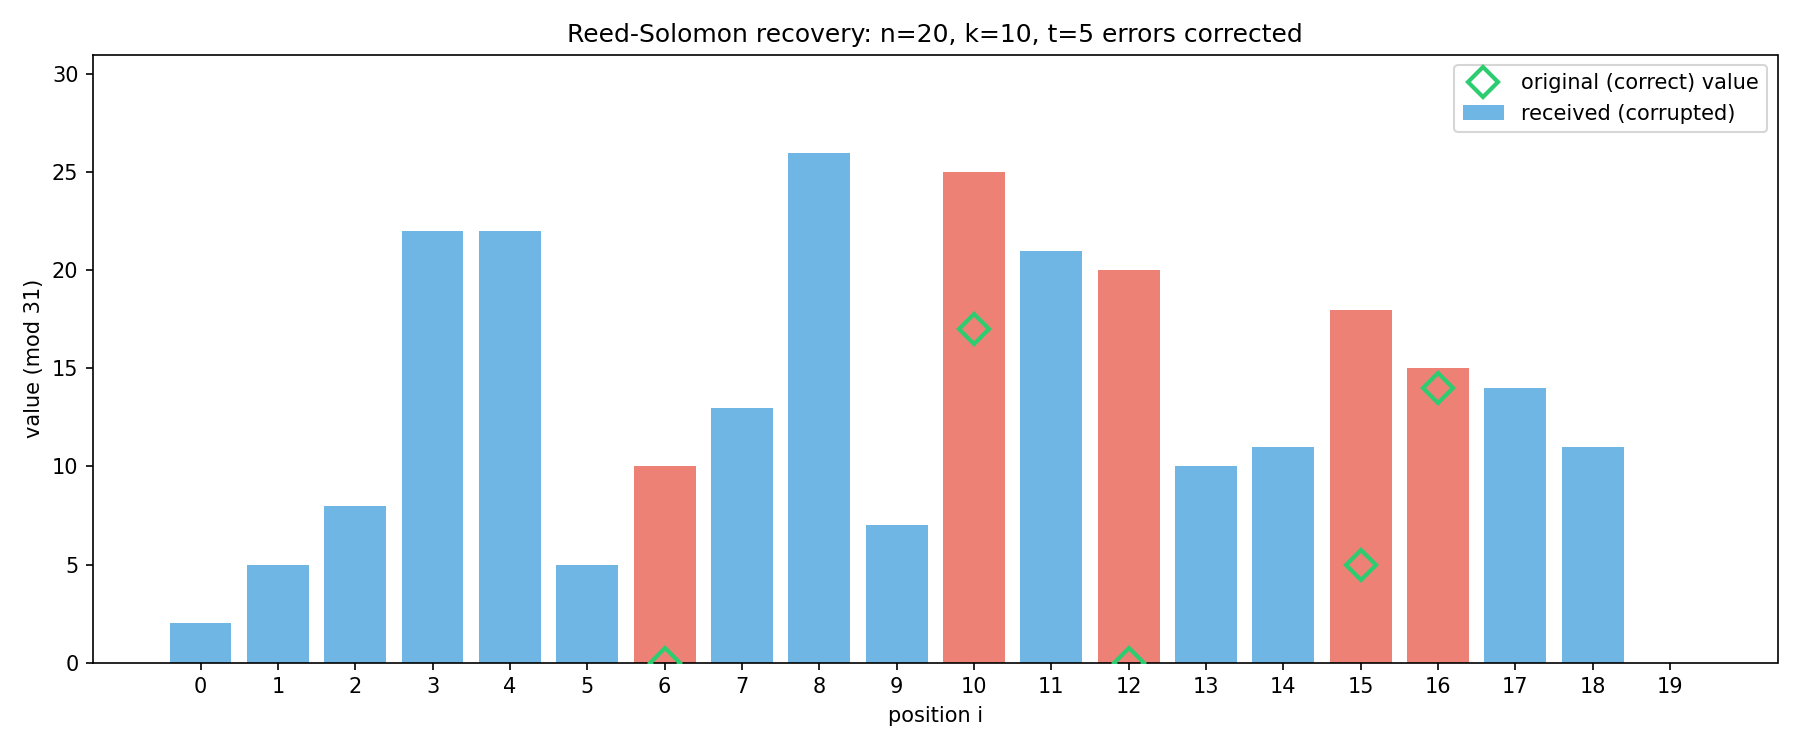
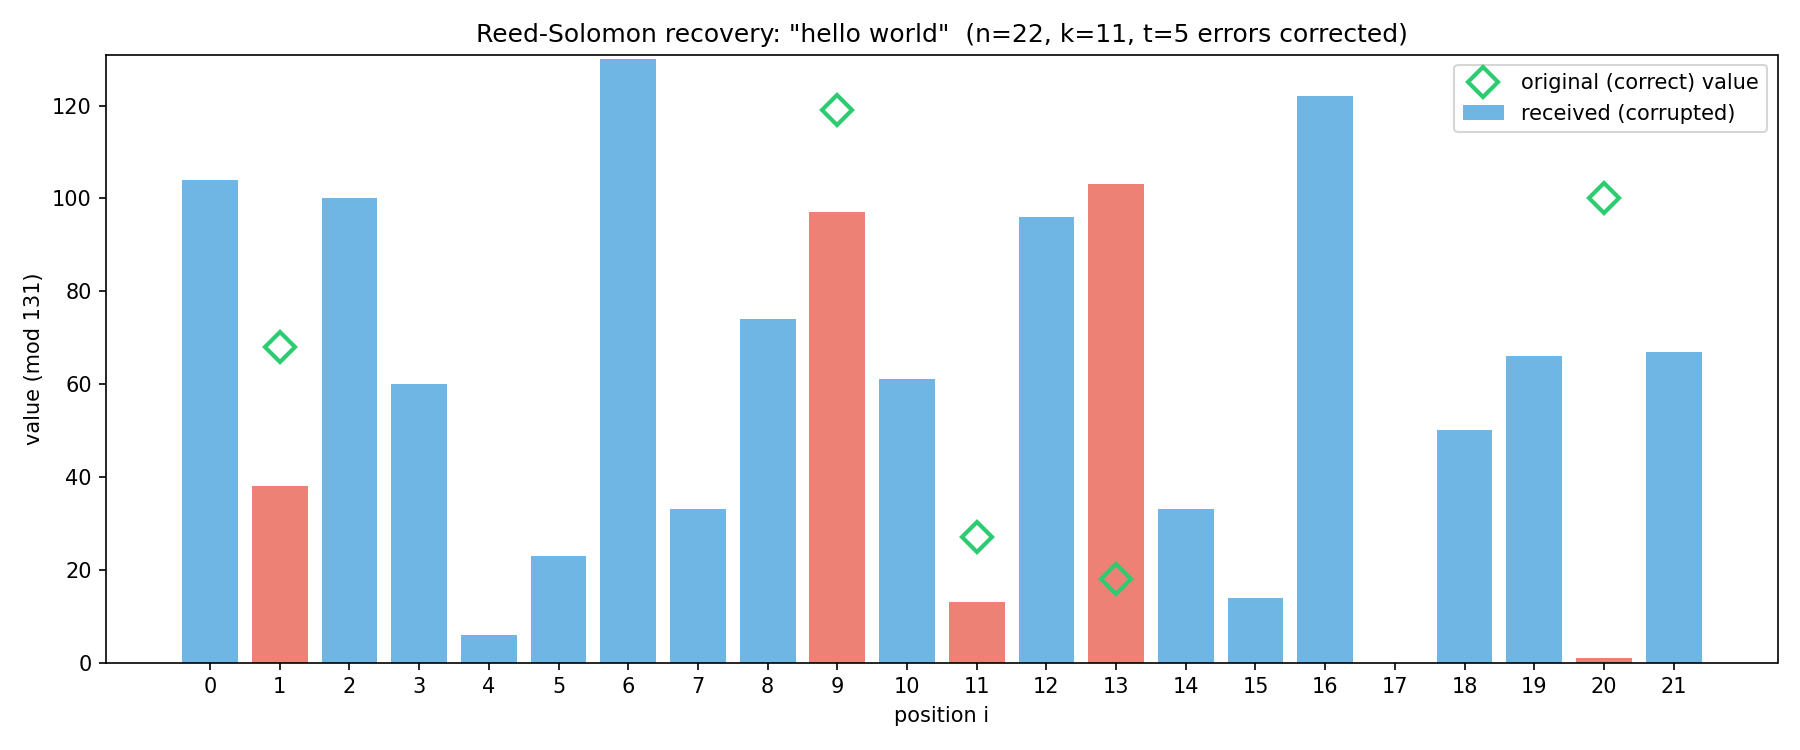
debugged script to rewrite demo_data.json

diff --git a/src/main.cpp b/src/main.cpp
@@ -1,5 +1,6 @@
 #include "rs.h"
 #include <iostream>
+#include <fstream>
 #include <random>
 #include <algorithm>
 #include <string>
@@ -100,6 +101,25 @@ int main() {
     } else {
         std::cout << "  euclidean:       failed\n";
     }
+
+    // Write JSON for visualization script
+    std::ofstream out("vis/demo_data.json");
+    auto dump_vec = [&](const char* name, const std::vector<Fp>& v) {
+        out << "  \"" << name << "\": [";
+        for (size_t i = 0; i < v.size(); i++)
+            out << (i ? ", " : "") << v[i].val;
+        out << "]";
+    };
+    out << "{\n";
+    out << "  \"message_str\": \"" << input << "\",\n";
+    out << "  \"p\": " << p << ", \"k\": " << k << ", \"n\": " << n << ", \"t\": " << rs.t << ",\n";
+    dump_vec("codeword", codeword); out << ",\n";
+    dump_vec("corrupted", corrupted); out << ",\n";
+    out << "  \"error_positions\": [";
+    for (size_t i = 0; i < positions.size(); i++)
+        out << (i ? ", " : "") << positions[i];
+    out << "]\n}\n";
+    std::cout << "\nwrote vis/demo_data.json\n";
 
     return 0;
 }

diff --git a/vis/demo_recovery.py b/vis/demo_recovery.py
@@ -34,7 +34,8 @@ ax.plot([], [], "D", color="#2ecc71", markersize=10, markeredgewidth=2,
 
 ax.set_xlabel("position i")
 ax.set_ylabel("value (mod {})".format(data["p"]))
-ax.set_title("Reed-Solomon recovery: n={}, k={}, t={} errors corrected".format(n, k, t))
+msg_str = data.get("message_str", "")
+ax.set_title("Reed-Solomon recovery: \"{}\"  (n={}, k={}, t={} errors corrected)".format(msg_str, n, k, t))
 ax.set_xticks(x)
 ax.legend()
 ax.set_ylim(0, data["p"])
